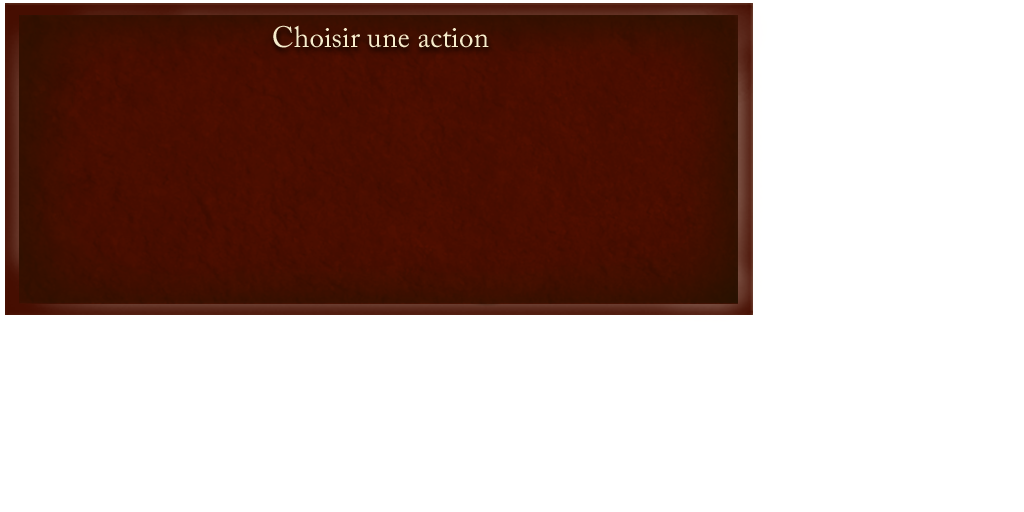
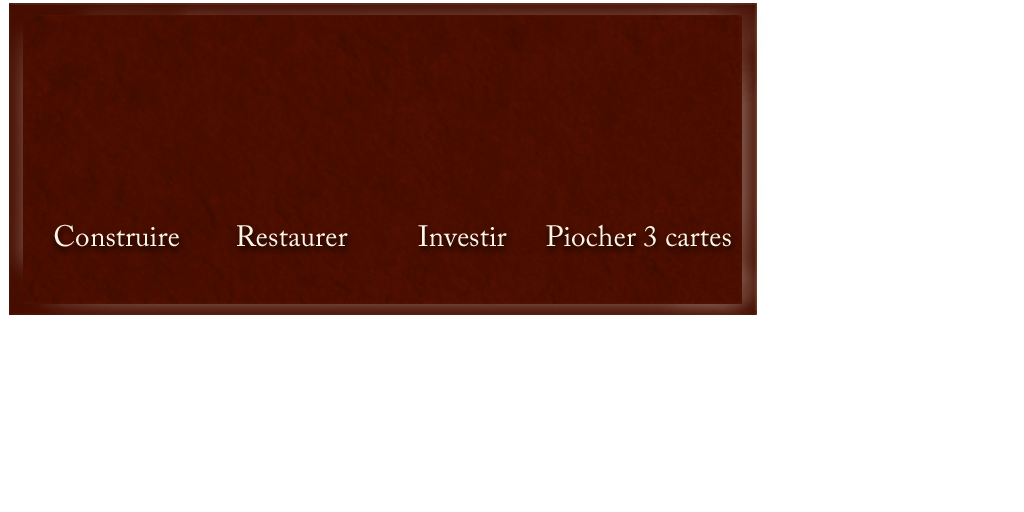
Ajout des boutons piocher 3 cartes et investir

diff --git a/London/src/fr/m1miage/london/ui/screens/GameScreen.java b/London/src/fr/m1miage/london/ui/screens/GameScreen.java
@@ -36,6 +36,8 @@ public class GameScreen extends Screen{
 	/* Boutons des actions */
 	private static Button construireBtn;
 	private static Button restaurerBtn;
+	private static Button investirBtn;
+	private static Button piocherBtn;
 
 	/* Main du joueur */
 	public static int idCarteSelected=0;
@@ -53,20 +55,29 @@ public class GameScreen extends Screen{
 		Gdx.input.setInputProcessor(stage);
 		/*Parametres Boutons d'action*/
 		Table tableActions = new Table();
-		tableActions.setPosition(600, 500);
+		tableActions.setPosition(785, 525);
 		construireBtn = new Button(Buttons.styleBtnConstruire);
 		construireBtn.size(170,170);
 		tableActions.add(construireBtn);
 		
 		restaurerBtn = new Button(Buttons.styleBtnRestaurer);
-		restaurerBtn.scale(170,170);
+		restaurerBtn.size(170,170);
 		tableActions.add(restaurerBtn);
+		
+		investirBtn = new Button(Buttons.styleBtnInvestir);
+		investirBtn.size(170,170);
+		tableActions.add(investirBtn);
+		
+		piocherBtn = new Button(Buttons.styleBtnPiocher);
+		piocherBtn.size(170,170);
+		tableActions.add(piocherBtn);
+		
 		tableActions.pad(30f);		
 		stage.addActor(tableActions);
 		
 		/* Parametres Boutons Menu General*/
-		zoneConstructionBtn = new TextButton("Zone de construction",Buttons.styleInGameMenu); //** Button text and style **//
-		zoneConstructionBtn.setPosition(90, top); //** Button location **//
+		zoneConstructionBtn = new TextButton("Zone de construction",Buttons.styleInGameMenu);
+		zoneConstructionBtn.setPosition(90, top); 
 		sizeOfButton(zoneConstructionBtn);
 		zoneConstructionBtn.addListener(new InputListener(){
 

diff --git a/London/src/fr/m1miage/london/ui/graphics/Buttons.java b/London/src/fr/m1miage/london/ui/graphics/Buttons.java
@@ -34,12 +34,22 @@ public class Buttons {
 	public static ButtonStyle styleBtnConstruire;
 	public static ButtonStyle styleBtnRestaurer;
 	public static ButtonStyle styleBtnInvestir;
+	public static ButtonStyle styleBtnPiocher;
 	
 	public static TextButtonStyle nbButtonStyle;
 	
 	public static TextButton button; 
 	private static BitmapFont font;
 
+	private static void boutonPiocher(){
+		TextureAtlas btnAtlas = new TextureAtlas(Prefs.REPERTOIRE+"buttonPiocher.pack"); 
+		Skin buttonSkin = new Skin();
+		buttonSkin.addRegions(btnAtlas); 
+		styleBtnPiocher = new ButtonStyle();
+		styleBtnPiocher.up = buttonSkin.getDrawable("ButtonOff");
+		styleBtnPiocher.down = buttonSkin.getDrawable("ButtonOn");
+	}
+	
 	private static void boutonInvestir(){
 		TextureAtlas btnAtlas = new TextureAtlas(Prefs.REPERTOIRE+"buttonInvestir.pack"); 
 		Skin buttonSkin = new Skin();
@@ -151,7 +161,7 @@ public class Buttons {
 		boutonStyleNbJ();
 		boutonConstruire();
 		boutonRestaurer();
-		
-
+		boutonInvestir();
+		boutonPiocher();
 	}
 }
